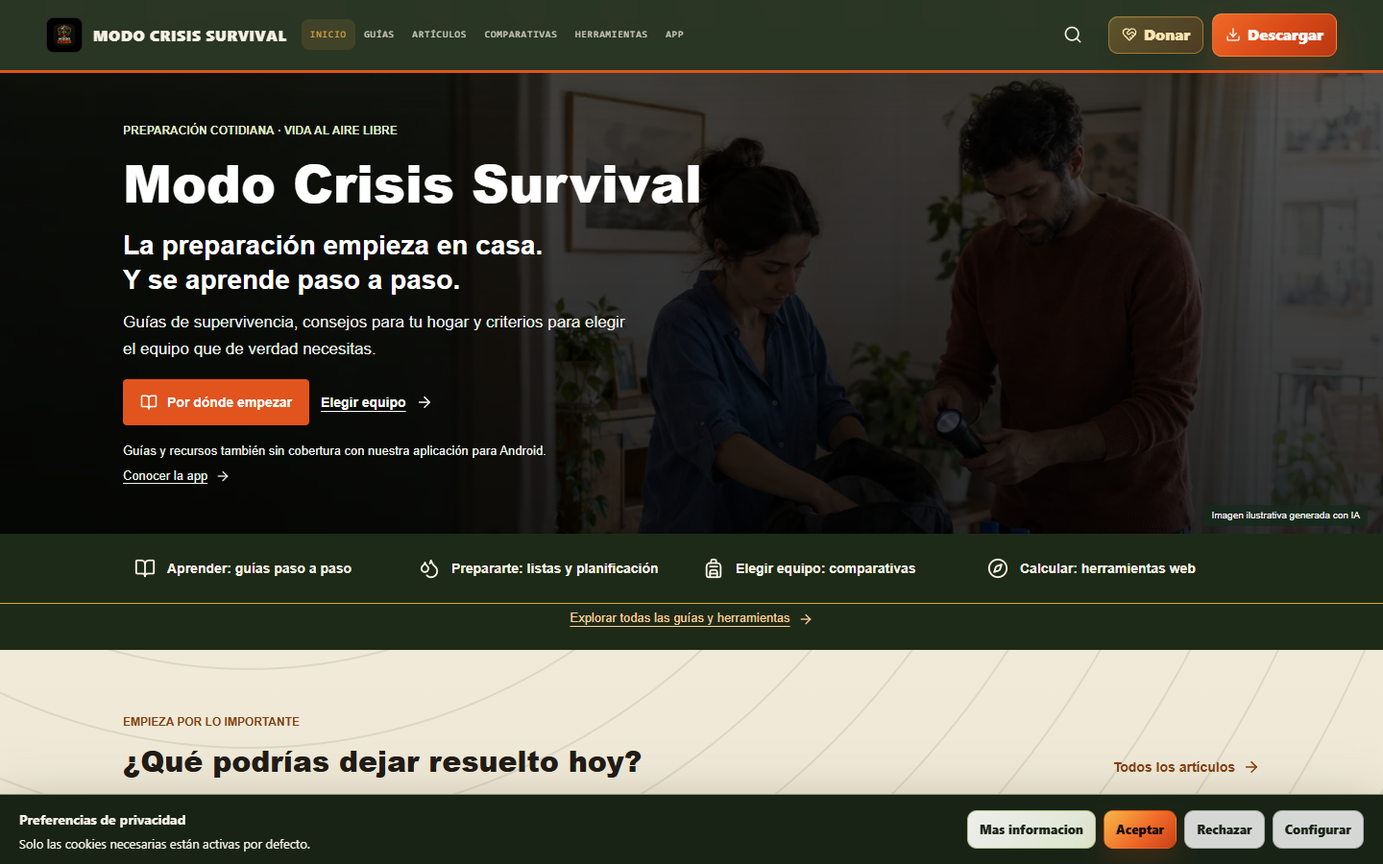
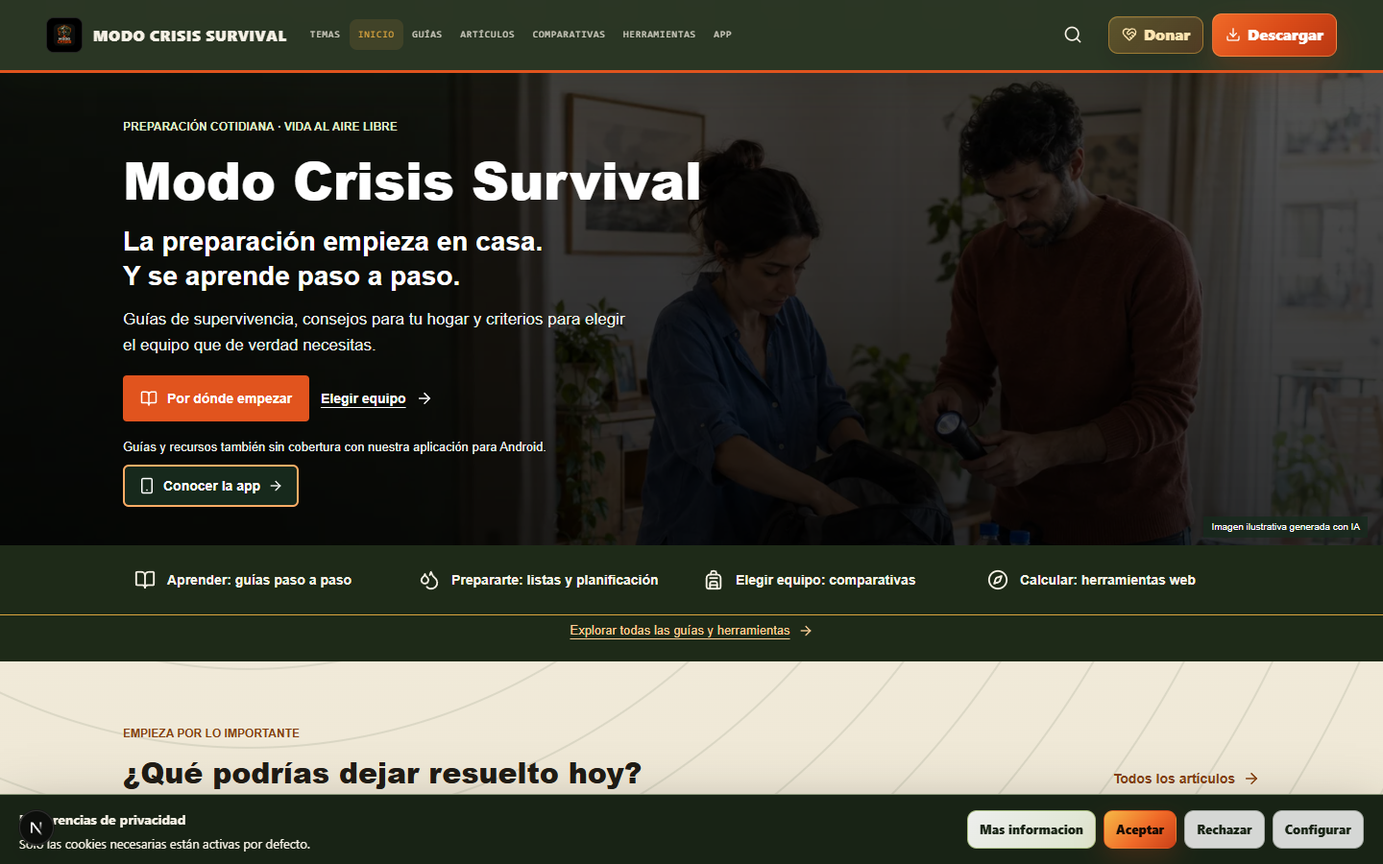
nuevo 7

diff --git a/src/components/ExtraSurvivalCalculator.tsx b/src/components/ExtraSurvivalCalculator.tsx
@@ -1,0 +1,57 @@
+'use client';
+import { useState } from 'react';
+import { Calculator, RotateCcw, Undo2, Wind } from 'lucide-react';
+import { convertUnit, labelDose, solarYield, unitGroups } from '@/lib/extra-calculators';
+
+const fmt = (n: number) => n.toLocaleString('es-ES', {maximumFractionDigits: 3});
+export function ExtraSurvivalCalculator({ kind }: { kind: string }) {
+  const [values, setValues] = useState<Record<string, string>>({});
+  const [result, setResult] = useState('');
+  const [checks, setChecks] = useState<string[]>([]);
+  const [group, setGroup] = useState('Volumen');
+  const [pulses, setPulses] = useState('');
+  const [columns, setColumns] = useState('3');
+  const [wind, setWind] = useState('0');
+  const [error, setError] = useState('');
+  function reset() { setValues({}); setResult(''); setChecks([]); setPulses(''); setColumns('3'); setWind('0'); setGroup('Volumen'); setError(''); }
+  const change = (key: string, value: string) => { setValues(v => ({...v, [key]: value})); setResult(''); setError(''); };
+  const fields: [string, string, string, number, number][] = kind === 'solar' ? [
+    ['area','Superficie captadora (m²)','0.5',.001,10000], ['sun','Irradiancia supuesta (W/m²)','650',0,1500], ['hours','Horas de sol equivalentes','6',0,24], ['eff','Eficiencia supuesta (%)','33',.1,100],
+  ] : kind === 'chemical' ? [
+    ['litres','Agua a tratar (L)','2',.001,10000], ['batch','Litros indicados en la etiqueta','1',.001,10000], ['dose','Cantidad indicada en la etiqueta','1',.001,10000], ['wait','Tiempo de contacto indicado (min)','30',1,10080],
+  ] : kind === 'river' ? [['distance','Distancia del ejemplo (m)','10',.01,10000],['seconds','Tiempo del ejemplo (s)','20',.01,10000]] : [];
+  const get = (key: string) => values[key] ?? fields.find(f => f[0] === key)?.[2] ?? '';
+  function number(key: string) { const raw = get(key); if (!raw.trim() || !Number.isFinite(Number(raw))) throw new Error('Completa los campos con números válidos.'); return Number(raw); }
+  const numeric = ['solar','chemical','river','converter'].includes(kind);
+  const symptoms = ['Temblores, piel muy fría o palidez', 'Confusión, somnolencia o habla arrastrada', 'Respiración lenta o deterioro del estado', 'No responde o no respira normalmente'];
+  return <section className="survival-calculator extra-tool" id="calculadora">
+    <h2>{kind === 'hypothermia' ? 'Signos observables' : kind === 'smoke' ? 'Simulador visual' : kind === 'whistle' ? 'Pulsos de silbato' : 'Calcula con tus datos'}</h2>
+    {kind === 'chemical' && <p>Traslada únicamente la pauta del producto autorizado para agua de bebida. No hay una dosis universal. No uses esta operación para contaminación química ni cambies el tiempo o condiciones de la etiqueta. <a href="https://www.cdc.gov/water-emergency/about/index.html">Consultar recomendaciones de CDC</a>.</p>}
+    {kind === 'solar' && <p>Modelo energético idealizado, no una predicción de agua potable. La irradiancia se introduce como supuesto: no se deduce de la temperatura ambiente.</p>}
+    {kind === 'river' && <p>No cruces una corriente o zona inundada. Esta operación solo ilustra distancia ÷ tiempo; no evalúa si un vadeo es seguro. No entres en el agua ni te acerques para medir. <a href="https://www.weather.gov/safety/flood-turn-around-dont-drown">Seguridad ante inundaciones, NWS</a>.</p>}
+    {numeric && <form onSubmit={e => {e.preventDefault(); setError(''); setResult(''); try {
+      if (kind === 'solar') setResult(`${fmt(solarYield(number('area'), number('sun'), number('hours'), number('eff')))} L teóricos. No garantiza rendimiento, disponibilidad ni potabilidad. Modelo: W/m² × m² × horas × 3600 × eficiencia ÷ 2.260.000 J/kg; densidad aproximada 1 kg/L.`);
+      if (kind === 'chemical') { if (!checks.includes('label')) throw new Error('Confirma que has leído y comprobado la etiqueta.'); const dose = labelDose(number('litres'),number('batch'),number('dose')); setResult(`${fmt(dose)} ${values.unit || 'mL'} según la proporción introducida. Tiempo mínimo introducido: ${fmt(number('wait'))} min. No es una pauta sanitaria validada. No fracciones pastillas si el fabricante no lo permite ni interpretes el resultado como autorización para beber.`); }
+      if (kind === 'river') { if(number('seconds')<=0 || number('distance')<0) throw new Error('Revisa distancia y tiempo.'); setResult(`${fmt(number('distance')/number('seconds'))} m/s en el ejemplo. No determina profundidad, estabilidad, caudal ni seguridad. Busca una alternativa autorizada o retrocede.`); }
+      if (kind === 'converter') { const units = Object.keys(unitGroups[group]); const raw = values.amount ?? '1'; if(!raw.trim()) throw new Error('Introduce una cantidad.'); const to=values.to || units[1]; setResult(`${fmt(convertUnit(Number(raw),group,values.from || units[0],to))} ${to}`); }
+    } catch(err) {setError(err instanceof Error ? err.message : 'Revisa los datos.');}}}>
+      <div className="calculator-fields">{fields.map(([key,label,initial,min,max])=><label key={key}>{label}<input type="number" required min={min} max={max} step="any" value={values[key] ?? initial} onChange={e=>change(key,e.target.value)} /></label>)}
+      {kind === 'chemical' && <label>Unidad de la etiqueta<select value={values.unit || 'mL'} onChange={e=>change('unit',e.target.value)}><option>mL</option><option>pastillas</option></select></label>}
+      {kind === 'converter' && <><label>Magnitud<select value={group} onChange={e=>{setGroup(e.target.value);setValues({});setResult('');setError('');}}>{Object.keys(unitGroups).map(g=><option key={g}>{g}</option>)}</select></label><label>Cantidad<input type="number" step="any" required value={values.amount ?? '1'} onChange={e=>change('amount',e.target.value)} /></label>{(['from','to'] as const).map((key,i)=><label key={key}>{i ? 'A' : 'De'}<select value={values[key] || Object.keys(unitGroups[group])[i]} onChange={e=>change(key,e.target.value)}>{Object.keys(unitGroups[group]).map(u=><option key={u}>{u}</option>)}</select></label>)}</>}
+      </div>
+      {kind === 'chemical' && <label className="tool-check"><input type="checkbox" checked={checks.includes('label')} onChange={e=>{setChecks(e.target.checked?['label']:[]);setResult('');}} /> He comprobado producto, dosis, tiempo y condiciones en la etiqueta.</label>}
+      <div className="calculator-buttons"><button type="submit"><Calculator size={18} aria-hidden /> Calcular</button></div>
+    </form>}
+    {kind === 'hypothermia' && <>
+      <p>Si sospechas hipotermia, solicita ayuda al 112. No esperes a completar la lista. Si no responde o no respira normalmente, llama de inmediato y sigue las instrucciones del operador.</p>
+      {symptoms.map(s=><label className="tool-check" key={s}><input type="checkbox" checked={checks.includes(s)} onChange={e=>setChecks(c=>e.target.checked?[...c,s]:c.filter(v=>v!==s))} />{s}</label>)}
+      <div className="calculator-result" role="status">{checks.length ? `${checks.length} signos anotados para comunicar a emergencias. No permiten clasificar la gravedad ni confirmar un diagnóstico.` : 'Sin signos seleccionados. Esto no descarta hipotermia.'}</div>
+      <p>Busca abrigo seguro, retira ropa mojada y cubre con material seco. No frotes extremidades, no uses calor intenso directo y no des alcohol. <a href="https://www.nhs.uk/conditions/hypothermia/">Referencia sanitaria: NHS</a>.</p>
+    </>}
+    {kind === 'whistle' && <><p>Introduce cortos y largos para comparar el patrón. No graba audio ni avisa a rescate.</p><div className="calculator-buttons"><button type="button" disabled={pulses.length>=9} onClick={()=>setPulses(p=>p+'.')}>· Corto</button><button type="button" disabled={pulses.length>=9} onClick={()=>setPulses(p=>p+'-')}>− Largo</button><button type="button" aria-label="Quitar último pulso" title="Quitar último pulso" onClick={()=>setPulses(p=>p.slice(0,-1))}><Undo2 size={18} /></button></div><output className="pulse-output">{pulses || 'Sin pulsos'}</output><p role="status">{pulses==='...---...' ? 'Coincide con SOS en Morse. La interpretación exige reconocer también el ritmo y las pausas.' : pulses ? 'No se identifica un mensaje universal solo con esta secuencia. Los códigos del grupo deben acordarse antes.' : 'Corto: una unidad. Largo: tres unidades.'}</p><p>No practiques señales de socorro audibles en lugares donde puedan confundirse con una emergencia. <a href="/codigo-morse">Consultar el código Morse</a>.</p></>}
+    {kind === 'smoke' && <><p>Práctica en pantalla, sin encender fuego. Las columnas no garantizan un significado universal ni que alguien reciba el mensaje.</p><div className="calculator-fields"><label>Columnas<select value={columns} onChange={e=>setColumns(e.target.value)}>{[1,2,3,4].map(n=><option key={n} value={n}>{n}</option>)}</select></label><label>Viento ilustrativo<select value={wind} onChange={e=>setWind(e.target.value)}><option value="0">Sin viento</option><option value="12">Suave</option><option value="25">Fuerte</option></select></label></div><div className="smoke-practice" aria-label={`${columns} columnas de humo, simulación`} role="img">{Array.from({length:Number(columns)},(_,i)=><Wind key={i} size={64} style={{transform:`skewX(-${wind}deg)`}} aria-hidden />)}</div><p>No quemes neumáticos, aceites, plásticos ni otros residuos para hacer señales. Evita generar un incendio; utiliza medios seguros y contacta con emergencias cuando sea posible.</p></>}
+    {error && <p role="alert" className="calculator-error">{error}</p>}
+    {result && <div role="status" className="calculator-result">{result}</div>}
+    <div className="calculator-buttons"><button type="button" onClick={reset}><RotateCcw size={18} aria-hidden /> Restablecer</button></div>
+  </section>;
+}

diff --git a/src/content/calculator-web-notes.ts b/src/content/calculator-web-notes.ts
@@ -1,0 +1,31 @@
+import type { BlogPost } from './blog';
+export const calculatorWebNotes: Record<string, Pick<BlogPost, 'excerpt' | 'sections'>> = {
+  'calculadora-potabilizacion-quimica-agua': { excerpt: 'Calcula una proporción a partir de la pauta de un producto autorizado. La etiqueta y las indicaciones sanitarias siempre prevalecen.', sections: [
+    { heading: 'Cómo utilizar la versión web', body: 'Introduce volumen, cantidad por lote y tiempo tal como figuran en la etiqueta. Confirma que el producto es apto para agua de bebida. El resultado es una regla de tres, no una dosis elegida por la web. No fracciones pastillas ni cambies condiciones si el fabricante no lo permite.' },
+    { heading: 'Límites del tratamiento', body: 'La desinfección no elimina todos los contaminantes. Ante sospecha de combustibles, productos químicos o contaminación radiológica, busca una fuente segura y sigue las indicaciones sanitarias.', links: [{label:'Recomendaciones de CDC',href:'https://www.cdc.gov/water-emergency/about/index.html'}] },
+  ] },
+  'calculadora-destilacion-solar-agua': { excerpt: 'Explora un balance energético teórico con superficie, irradiancia, tiempo y eficiencia supuesta; no garantiza producción ni agua potable.', sections: [
+    { heading: 'Datos del modelo', body: 'Introduce superficie captadora, irradiancia media supuesta, horas equivalentes y eficiencia. Se utiliza una energía de vaporización simplificada de 2,26 MJ/kg y densidad de 1 kg/L. El balance no modela temperatura del agua, pérdidas variables, fugas ni calidad del montaje.' },
+    { heading: 'No dependas de la cifra para abastecerte', body: 'La irradiancia no puede deducirse de la temperatura ambiente. El resultado es un ejercicio con supuestos, no una medición de rendimiento ni un método certificado de potabilización. Prepara una fuente segura de agua.' },
+  ] },
+  'calculadora-cruce-rios-seguridad': { excerpt: 'Ejercicio de velocidad de corriente y límites de interpretación. Ningún resultado autoriza a vadear un río.', sections: [
+    { heading: 'Distancia dividida entre tiempo', body: 'Usa datos de un ejemplo para obtener m/s. No te acerques a una orilla peligrosa ni entres en el agua para medir. La operación no estima fuerza sobre una persona, estabilidad, profundidad ni obstáculos.' },
+    { heading: 'Sin semáforos de seguridad', body: 'No hay un resultado verde ni una categoría de río cruzable. Busca un paso autorizado y seguro o retrocede. En una inundación, sigue las instrucciones oficiales y evita cruzar zonas cubiertas de agua.', links: [{label:'NWS: no atravesar una inundación',href:'https://www.weather.gov/safety/flood-turn-around-dont-drown'}] },
+  ] },
+  'calculadora-conversor-survival-unidades': { excerpt: 'Convierte volumen, masa, distancia, velocidad, energía, tiempo, presión y temperatura con unidades identificadas.', sections: [
+    { heading: 'Elige magnitud, origen y destino', body: 'Introduce una cantidad y selecciona las unidades. Galones y onzas fluidas son estadounidenses; onzas de masa y onzas fluidas no son intercambiables. El conversor no transforma capacidad eléctrica en energía sin conocer el voltaje.' },
+    { heading: 'Revisa antes de aplicar', body: 'La equivalencia matemática no valida una dosis, una pauta médica ni una instrucción técnica. Conserva las unidades de origen y contrasta los valores con el documento o fabricante.' },
+  ] },
+  'calculadora-silbato-emergencia-senales': { excerpt: 'Introduce pulsos cortos y largos para reconocer SOS en Morse y practicar sin emitir sonido ni avisar a rescate.', sections: [
+    { heading: 'Introducir y corregir una secuencia', body: 'Pulsa Corto o Largo. Puedes retirar el último pulso o reiniciar. Tres cortos, tres largos y tres cortos coinciden con SOS; el ritmo y las pausas también importan. Otros patrones no reciben automáticamente un significado universal.' },
+    { heading: 'Una práctica, no un sistema de rescate', body: 'La web no escucha el micrófono, no transmite y no contacta con emergencias. Acuerda los códigos internos con tu grupo y no practiques socorro audible donde pueda confundirse con un incidente real.' },
+  ] },
+  'calculadora-senales-humo-supervivencia': { excerpt: 'Simulador en pantalla para comparar columnas y efecto visual del viento, sin encender fuego ni atribuir códigos universales.', sections: [
+    { heading: 'Cambiar el esquema', body: 'Selecciona entre una y cuatro columnas y un viento ilustrativo. El dibujo cambia para comparar patrones; no simula física atmosférica ni calcula visibilidad real.' },
+    { heading: 'Sin fuego real', body: 'No quemes aceites, neumáticos, plásticos o residuos. Las señales requieren interpretación y no garantizan ayuda. Prioriza medios seguros de comunicación y sigue las prohibiciones e instrucciones oficiales.' },
+  ] },
+  'calculadora-hipotermia-riesgo': { excerpt: 'Anota signos observables para comunicar a emergencias, sin puntuaciones ni categorías que puedan dar falsa tranquilidad.', sections: [
+    { heading: 'No esperes a terminar la lista', body: 'Si sospechas hipotermia, solicita asistencia al 112. La lista ayuda a comunicar observaciones, no a confirmar o descartar un diagnóstico. Si no responde o no respira normalmente, llama inmediatamente y sigue las instrucciones.' },
+    { heading: 'Mientras llega ayuda', body: 'Busca protección segura del frío y material seco. Evita frotar extremidades, calor directo intenso y alcohol. No interpretes que tener cero casillas marcadas significa estar fuera de peligro.', links: [{label:'NHS: hipotermia',href:'https://www.nhs.uk/conditions/hypothermia/'}] },
+  ] },
+};

diff --git a/app/portal.css b/app/portal.css
@@ -292,6 +292,10 @@
 .journal-hero-app { margin-top: 18px; max-width: 525px; }
 .journal-cover .journal-hero-app p { font-size: 13px; line-height: 1.45; margin: 0; color: #edf2ec; }
 .journal-hero-app a { color: #edf2ec; font-size: 13px; display: inline-flex; align-items: center; gap: 8px; min-height: 32px; text-decoration: underline; text-underline-offset: 3px; }
+.journal-hero-app .journal-app-button { min-height: 44px; margin-top: 8px; padding: 8px 14px; border: 2px solid #ffad66; border-radius: 6px; background: #17291c; color: #fff; font-size: 14px; font-weight: 700; text-decoration: none; max-width: 100%; }
+.journal-hero-app .journal-app-button:hover { background: #29412c; border-color: #ffd0a6; }
+.journal-hero-app .journal-app-button:focus-visible { outline: 3px solid #fff; outline-offset: 4px; }
+.journal-app-button svg { flex-shrink: 0; }
 .journal-explore-all { background: var(--forest); padding: 0 24px 16px; text-align: center; }
 .journal-explore-all a { color: #ffd099; font-size: 13px; display: inline-flex; gap: 8px; align-items: center; min-height: 32px; text-decoration: underline; text-underline-offset: 4px; }
 .cookie-banner, .cookie-dock-closed { position: fixed; bottom: 0; left: 0; right: 0; width: 100%; box-sizing: border-box; z-index: 100; border-radius: 0; background: #182315; color: #f7f2e6; border: 0; border-top: 1px solid #899779; padding: 12px 20px calc(12px + env(safe-area-inset-bottom)); }
@@ -329,7 +333,7 @@
 .article-app-reference img { display: block; width: 100%; height: auto; object-fit: contain; }
 .article-app-reference figcaption { font-size: 12px; margin-top: 8px; }
 .lunar-tool { max-width: 700px; margin: 24px auto; background: #1e2a18; color: #f7f2e6; padding: 16px; border-radius: 6px; }
-.lunar-toolbar { display: flex; align-items: end; gap: 12px; justify-content: space-between; margin-bottom: 20px; }
+.lunar-toolbar { display: flex; align-items: flex-end; gap: 12px; justify-content: space-between; margin-bottom: 20px; }
 .lunar-toolbar label { display: grid; gap: 6px; min-width: 0; }
 .lunar-toolbar input { max-width: 100%; min-width: 0; width: 180px; background: #f7f2e6; color: #201c15; font: inherit; padding: 8px; }
 .lunar-tool button { min-height: 44px; border: 1px solid #819174; background: #30402a; color: #fff; border-radius: 4px; cursor: pointer; }
@@ -340,6 +344,30 @@
 .lunar-days button span { font-size: 11px; color: #f7f2e6; }
 .lunar-days button[aria-pressed="true"] { background: #a83610; border-color: #ffd099; }
 .lunar-tool p { color: #f7f2e6; }
+.lunar-detail { margin-top: 24px; border-top: 1px solid #819174; padding-top: 24px; }
+.lunar-phase-heading { display: flex; align-items: center; gap: 20px; }
+.moon-disc { width: 112px; height: 112px; flex: 0 0 112px; border-radius: 50%; border: 1px solid #8c9c86; }
+.lunar-phase-heading h2 { color: #fff; font-size: 24px; margin: 8px 0; }
+.lunar-phase-heading time { font-size: 14px; }
+.lunar-facts, .lunar-next { display: grid; grid-template-columns: repeat(2,minmax(0,1fr)); gap: 16px; margin: 24px 0; }
+.lunar-facts dd { margin: 6px 0 0; color: #ffd099; font-size: 24px; font-weight: 700; }
+.lunar-facts dt { color: #edf2ec; }
+.lunar-next > div { border-top: 1px solid #819174; padding-top: 12px; }
+.lunar-next h3 { font-size: 16px; color: #fff; }
+.lunar-caveat { font-size: 13px; }
+.morse-reference { margin: 28px 0; }
+.morse-reference img { display: block; width: 100%; max-width: 1000px; height: auto; }
+.morse-reference figcaption { margin-top: 10px; font-size: 14px; }
+.extra-tool .tool-check { display: flex; align-items: flex-start; gap: 12px; margin: 16px 0; }
+.extra-tool .tool-check input { width: 22px; height: 22px; min-height: 22px; flex: 0 0 22px; margin: 0; }
+.extra-tool select { max-width: 100%; }
+.pulse-output { display: block; min-height: 56px; font-size: 24px; letter-spacing: 0; overflow-wrap: anywhere; padding: 12px 0; }
+.smoke-practice { display: flex; align-items: center; justify-content: space-evenly; gap: 8px; min-height: 160px; background: #132218; color: #e6e8e4; margin: 20px 0; border-radius: 6px; overflow: hidden; }
+.smoke-practice svg { width: 18%; max-width: 64px; }
+.calculator-catalog { grid-template-columns: repeat(2,minmax(0,1fr)); }
+@media(min-width:1050px) { .calculator-catalog { grid-template-columns: repeat(3,minmax(0,1fr)); } }
+@media(max-width:600px) { .calculator-catalog .portal-card-copy { padding: 12px; } .calculator-catalog h3 { font-size: 17px; overflow-wrap: anywhere; } .calculator-catalog p { font-size: 13px; } .calculator-catalog .portal-tool-icon { padding: 14px; } }
+@media(max-width:400px) { .lunar-phase-heading { gap: 12px; } .moon-disc { width: 88px; height: 88px; flex-basis: 88px; } .lunar-phase-heading h2 { font-size: 20px; } }
 @media(max-width:400px) { .lunar-tool { padding: 10px; } .lunar-days { gap: 3px; } .lunar-toolbar { gap: 6px; } }
 .article-field-reference { margin: 24px 0; width: 100%; }
 .article-field-reference img { width: 100%; height: auto; display: block; object-fit: contain; }

diff --git a/src/lib/extra-calculators.ts b/src/lib/extra-calculators.ts
@@ -1,0 +1,38 @@
+export const extraCalculatorKinds: Record<string, string> = {
+  'calculadora-potabilizacion-quimica-agua': 'chemical',
+  'calculadora-destilacion-solar-agua': 'solar',
+  'calculadora-cruce-rios-seguridad': 'river',
+  'calculadora-conversor-survival-unidades': 'converter',
+  'calculadora-silbato-emergencia-senales': 'whistle',
+  'calculadora-senales-humo-supervivencia': 'smoke',
+  'calculadora-hipotermia-riesgo': 'hypothermia',
+};
+export const unitGroups: Record<string, Record<string, number>> = {
+  Volumen: { L: 1, mL: .001, 'gal (EE. UU.)': 3.785411784, 'fl oz (EE. UU.)': .0295735295625 },
+  Masa: { kg: 1, g: .001, lb: .45359237, oz: .028349523125 },
+  Distancia: { m: 1, km: 1000, mi: 1609.344, 'milla náutica': 1852, ft: .3048 },
+  Velocidad: { 'm/s': 1, 'km/h': 1/3.6, mph: .44704, nudos: 1852/3600 },
+  Energía: { Wh: 1, kWh: 1000, J: 1/3600, kJ: 1/3.6 },
+  Tiempo: { s: 1, min: 60, h: 3600, días: 86400 },
+  Presión: { Pa: 1, hPa: 100, bar: 100000, psi: 6894.757293 },
+  Temperatura: { '°C': 1, '°F': 1, K: 1 },
+};
+export function convertUnit(value: number, group: string, from: string, to: string) {
+  const units = unitGroups[group];
+  if (!Number.isFinite(value) || !units?.[from] || !units[to]) throw new Error('Revisa cantidad y unidades.');
+  if (group === 'Temperatura') {
+    const c = from === '°F' ? (value - 32) * 5/9 : from === 'K' ? value - 273.15 : value;
+    if (c < -273.15) throw new Error('Temperatura inferior al cero absoluto.');
+    return to === '°F' ? c * 9/5 + 32 : to === 'K' ? c + 273.15 : c;
+  }
+  if (value < 0) throw new Error('La cantidad no puede ser negativa.');
+  return value * units[from] / units[to];
+}
+export function solarYield(area: number, irradiance: number, hours: number, efficiency: number) {
+  if (![area, irradiance, hours, efficiency].every(Number.isFinite) || area <= 0 || irradiance < 0 || irradiance > 1500 || hours < 0 || hours > 24 || efficiency <= 0 || efficiency > 100) throw new Error('Revisa los valores del modelo.');
+  return area * irradiance * hours * 3600 * efficiency / 100 / 2260000;
+}
+export function labelDose(litres: number, batchLitres: number, quantity: number) {
+  if (![litres, batchLitres, quantity].every(Number.isFinite) || litres <= 0 || batchLitres <= 0 || quantity <= 0) throw new Error('Introduce valores positivos de la etiqueta.');
+  return litres / batchLitres * quantity;
+}

diff --git a/src/components/LunarCalendar.tsx b/src/components/LunarCalendar.tsx
@@ -1,7 +1,8 @@
 'use client';
 import { useEffect, useState } from 'react';
 import { ChevronLeft, ChevronRight } from 'lucide-react';
-import { lunarMonth } from '@/lib/lunar';
+import { lunarMonth, nextLunarPhases } from '@/lib/lunar';
+import { MoonDisc } from './MoonDisc';
 export function LunarCalendar() {
   const [month, setMonth] = useState('');
   const [selected, setSelected] = useState(1);
@@ -17,6 +18,11 @@ export function LunarCalendar() {
     <div className="lunar-days">{['L','M','X','J','V','S','D'].map(d=><span key={d} aria-hidden>{d}</span>)}
       {days.map(d=><button type="button" key={d.day} style={d.day===1?{gridColumnStart:d.weekday+1}:undefined} aria-pressed={active?.day===d.day} aria-label={`${d.day}: ${d.phase}, ${d.illumination}% iluminada`} onClick={()=>setSelected(d.day)}><strong>{d.day}</strong><span>{d.illumination}%</span></button>)}
     </div>
-    <p role="status">{active ? `Día ${active.day}: ${active.phase}. Fracción iluminada: ${active.illumination}%.` : 'Preparando calendario…'}</p>
+    {active ? <div className="lunar-detail" aria-live="polite">
+      <div className="lunar-phase-heading"><MoonDisc fraction={active.fraction} waning={active.phaseValue > .5} label={`Luna ${active.phase.toLowerCase()}, ${active.illumination}% iluminada`} /><div><time dateTime={active.date}>{new Date(active.date).toLocaleDateString('es-ES', {dateStyle:'long',timeZone:'UTC'})}</time><h2>Luna {active.phase.toLowerCase()}</h2><p>{active.phaseValue < .5 ? 'En fase creciente' : 'En fase menguante'}</p></div></div>
+      <dl className="lunar-facts"><div><dt>Iluminación</dt><dd>{active.illumination}%</dd></div><div><dt>Edad lunar aproximada</dt><dd>{active.age.toFixed(1).replace('.',',')} días</dd></div></dl>
+      <div className="lunar-next">{nextLunarPhases(active.date).map(p=><div key={p.name}><h3>Próxima {p.name.toLowerCase()}</h3><strong>En unos {p.days} días</strong><p>{new Date(p.date).toLocaleDateString('es-ES',{day:'numeric',month:'long',timeZone:'UTC'})}</p></div>)}</div>
+      <p className="lunar-caveat">Esquema orientado al hemisferio norte, no una fotografía. Datos aproximados a las 12:00 UTC. No indican horas de luz nocturna ni salida de la Luna: dependen del lugar, el horizonte y el tiempo.</p>
+    </div> : <p role="status">Preparando calendario…</p>}
   </section>;
 }

diff --git a/tests/extra-calculators.test.ts b/tests/extra-calculators.test.ts
@@ -1,0 +1,32 @@
+import { describe, expect, it } from 'vitest';
+import { convertUnit, solarYield, labelDose } from '../src/lib/extra-calculators';
+import { lunarMonth, nextLunarPhases } from '../src/lib/lunar';
+describe('Additional calculators', () => {
+  it('converts units and temperature without crossing dimensions', () => {
+    expect(convertUnit(1,'Volumen','gal (EE. UU.)','L')).toBeCloseTo(3.785411784);
+    expect(convertUnit(32,'Temperatura','°F','°C')).toBe(0);
+    expect(convertUnit(0,'Temperatura','°C','K')).toBe(273.15);
+    expect(()=>convertUnit(1,'Volumen','L','kg')).toThrow();
+    expect(()=>convertUnit(-1,'Volumen','L','mL')).toThrow();
+    expect(()=>convertUnit(-300,'Temperatura','°C','K')).toThrow();
+    expect(()=>convertUnit(NaN,'Volumen','L','mL')).toThrow();
+  });
+  it('uses explicit solar assumptions and label proportions', () => {
+    expect(solarYield(.5,650,6,33)).toBeCloseTo(1.02504,4);
+    expect(solarYield(.5,0,6,33)).toBe(0);
+    expect(()=>solarYield(.5,650,25,33)).toThrow();
+    expect(labelDose(10,2,1)).toBe(5);
+    expect(()=>labelDose(1,0,1)).toThrow();
+  });
+  it('finds two future phase crossings within a lunar cycle', () => {
+    const day=lunarMonth('2024-04')[7];
+    expect(day.fraction).toBeLessThan(.02);
+    const next=nextLunarPhases(day.date);
+    expect(new Set(next.map(p=>p.name)).size).toBe(2);
+    for(const p of next) { expect(p.days).toBeGreaterThan(0);expect(p.days).toBeLessThanOrEqual(31); }
+    expect(nextLunarPhases('bad')).toEqual([]);
+    const september=nextLunarPhases('2026-09-23T12:00:00Z');
+    expect(september.find(p=>p.name==='Luna nueva')!.days).toBeGreaterThan(10);
+    expect(september.find(p=>p.name==='Luna llena')!.days).toBeLessThan(7);
+  });
+});

diff --git a/app/codigo-morse/page.tsx b/app/codigo-morse/page.tsx
@@ -8,6 +8,7 @@ export default function MorsePage() {
     <Breadcrumbs items={[{label: "Inicio", href: "/"}, {label: "Herramientas", href: "/herramientas-supervivencia"}, {label: "Código Morse", href: "/codigo-morse"}]} />
     <header className="editorial-library-heading"><h1>Código Morse</h1><p>Puntos, rayas y mensajes para practicar la comunicación.</p></header>
     <MorseTranslator />
+    <figure className="morse-reference"><a href="/images/morse-app.png" target="_blank" rel="noopener noreferrer" aria-label="Ampliar lámina Morse de la app"><img src="/images/morse-app.png" width={1448} height={1086} alt="Lámina de letras y números en Morse procedente de la app" loading="lazy" /></a><figcaption>Lámina de la app. Está incompleta: falta la W (.--). Para consultar el alfabeto completo utiliza la tabla del traductor.</figcaption></figure>
     <section className="morse-notes"><h2>Aprender el ritmo</h2><p>Una raya dura tres puntos. La separación dentro de una letra dura un punto; entre letras, tres; entre palabras, siete. En la escritura usamos espacios entre letras y / entre palabras.</p>
       <h2>Práctica en pareja</h2><p>Empieza con tres letras y acuerda el mensaje con otra persona. Alternad quién escribe y quién interpreta. Comprueba el resultado antes de aumentar la longitud. Las letras acentuadas, la ñ y la puntuación no se convierten en esta versión.</p>
       <h2>No es una llamada de emergencia</h2><p>Este traductor no transmite mensajes, no emite alertas y no contacta con rescate. No hagas pruebas de socorro que puedan confundirse con una emergencia real.</p>

diff --git a/src/lib/lunar.ts b/src/lib/lunar.ts
@@ -7,6 +7,21 @@ export function lunarMonth(value: string) {
     const date = new Date(Date.UTC(year, month - 1, i + 1, 12));
     const moon = SunCalc.getMoonIllumination(date);
     const phase = moon.phase < .03 || moon.phase > .97 ? 'Nueva' : moon.phase < .22 ? 'Creciente' : moon.phase < .28 ? 'Cuarto creciente' : moon.phase < .47 ? 'Gibosa creciente' : moon.phase < .53 ? 'Llena' : moon.phase < .72 ? 'Gibosa menguante' : moon.phase < .78 ? 'Cuarto menguante' : 'Menguante';
-    return { day: i + 1, weekday: (date.getUTCDay() + 6) % 7, illumination: Math.round(moon.fraction * 100), phase };
+    return { day: i + 1, date: date.toISOString(), phaseValue: moon.phase, fraction: moon.fraction, age: moon.phase * 29.53059, weekday: (date.getUTCDay() + 6) % 7, illumination: Math.round(moon.fraction * 100), phase };
   });
+}
+
+export function nextLunarPhases(iso: string) {
+  const start = new Date(iso).getTime();
+  if (!Number.isFinite(start)) return [];
+  const result: { name: string; date: string; days: number }[] = [];
+  let previous = SunCalc.getMoonIllumination(new Date(start)).phase;
+  for (let hour = 1; hour <= 35 * 24 && result.length < 2; hour++) {
+    const time = start + hour * 3600000;
+    const phase = SunCalc.getMoonIllumination(new Date(time)).phase;
+    const name = previous > .9 && phase < .1 ? 'Luna nueva' : previous < .5 && phase >= .5 ? 'Luna llena' : '';
+    if (name && !result.some(r => r.name === name)) result.push({ name, date: new Date(time).toISOString(), days: Math.ceil(hour / 24) });
+    previous = phase;
+  }
+  return result;
 }

diff --git a/src/components/MoonDisc.tsx b/src/components/MoonDisc.tsx
@@ -1,0 +1,25 @@
+'use client';
+import { useEffect, useRef } from 'react';
+
+export function MoonDisc({ fraction, waning, label }: { fraction: number; waning: boolean; label: string }) {
+  const canvas = useRef<HTMLCanvasElement>(null);
+  useEffect(() => {
+    const ctx = canvas.current?.getContext('2d');
+    if (!ctx) return;
+    const size = 240;
+    const pixels = ctx.createImageData(size, size);
+    const zLight = 2 * fraction - 1;
+    const xLight = Math.sqrt(Math.max(0, 1 - zLight * zLight)) * (waning ? -1 : 1);
+    for (let y = 0; y < size; y++) for (let x = 0; x < size; x++) {
+      const nx = (x + .5 - size / 2) / (size / 2), ny = (y + .5 - size / 2) / (size / 2);
+      const radius = nx * nx + ny * ny;
+      if (radius > 1) continue;
+      const lit = nx * xLight + Math.sqrt(1 - radius) * zLight > 0;
+      const value = lit ? Math.round(220 + 20 * Math.sqrt(1 - radius)) : 28;
+      const i = (y * size + x) * 4;
+      pixels.data.set([value, value, lit ? value - 10 : value + 4, 255], i);
+    }
+    ctx.putImageData(pixels, 0, 0);
+  }, [fraction, waning]);
+  return <canvas className="moon-disc" ref={canvas} width={240} height={240} role="img" aria-label={label}>{label}</canvas>;
+}

diff --git a/src/content/blog.ts b/src/content/blog.ts
@@ -8,6 +8,7 @@ import { continuityArticles, continuityUpdates } from "./continuity-articles";
 import { preparednessScenarios } from "./preparedness-scenarios";
 import { outdoorArticles } from "./outdoor-articles";
 import { everydayArticles, everydayUpdates } from "./everyday-survival";
+import { calculatorWebNotes } from './calculator-web-notes';
 
 export interface BlogSection {
   image?: { src: string; alt: string; caption?: string; fullWidth?: boolean };
@@ -1754,6 +1755,11 @@ for (const revision of everydayArticles.filter(post => everydayUpdates.has(post.
   const existing = blogPosts.find(post => post.slug === revision.slug);
   if (!existing) throw new Error(`Missing article: ${revision.slug}`);
   Object.assign(existing, revision, { publishedAt: existing.publishedAt, date: existing.date, updatedAt: revision.publishedAt });
+}
+
+for (const [slug, revision] of Object.entries(calculatorWebNotes)) {
+  const post = blogPosts.find(p => p.slug === slug);
+  if (post) Object.assign(post, revision, { updatedAt: '2026-09-28' });
 }
 
 export const orderedBlogPosts = [...blogPosts].sort((a, b) => blogPostDateValue(b).localeCompare(blogPostDateValue(a)));

diff --git a/src/components/SurvivalCalculator.tsx b/src/components/SurvivalCalculator.tsx
@@ -1,6 +1,8 @@
 "use client";
 import { useState, type FormEvent } from "react";
 import { Calculator, RotateCcw } from "lucide-react";
+import { ExtraSurvivalCalculator } from './ExtraSurvivalCalculator';
+import { extraCalculatorKinds } from '@/lib/extra-calculators';
 import {
   automaticSunset,
   daylight,
@@ -14,6 +16,7 @@ import {
 } from "@/lib/calculators";
 
 export const calculatorKinds: Record<string, string> = {
+  ...extraCalculatorKinds,
   "calculadora-captacion-lluvia-supervivencia": "rain",
   "calculadora-gestion-agua-supervivencia": "water",
   "calculadora-energia-powerbank-emergencia": "energy",
@@ -44,6 +47,7 @@ export function SurvivalCalculator({ slug }: { slug: string }) {
   const [mode, setMode] = useState("");
   const [result, setResult] = useState<string[]>([]);
   const [error, setError] = useState("");
+  if (extraCalculatorKinds[slug]) return <ExtraSurvivalCalculator kind={kind} />;
   if (!kind) return null;
   const options: Record<string, string> =
     kind === "rain"

diff --git a/app/aplicacion-supervivencia-offline/page.tsx b/app/aplicacion-supervivencia-offline/page.tsx
@@ -532,9 +532,6 @@ export default async function HomePage() {
   return (
     <>
       <SeoJsonLd data={appJsonLd()} />
-      <nav className="content-band portal-app-nav" aria-label="Secciones de la aplicación">
-        <Link href="/funciones">Funciones Android</Link><Link href="/aplicacion-supervivencia-offline/herramientas">Herramientas personales</Link><Link href="/recursos-avanzados">Calculadoras y recursos offline</Link><Link href="/aprendizaje-supervivencia">Biblioteca y aprendizaje</Link><Link href="/ia-enciclopedia">IA offline</Link><Link href="/centro-descargas">Mapas y recursos</Link><Link href="/descargar">Descarga e instalación</Link><Link href="/preguntas-frecuentes">Preguntas frecuentes</Link>
-      </nav>
       <section className="hero">
         <div className="hero-copy">
           <p className="hero-badge"><span className="pulse-dot" aria-hidden />Modo offline activo · Preparación, crisis y supervivencia</p>
